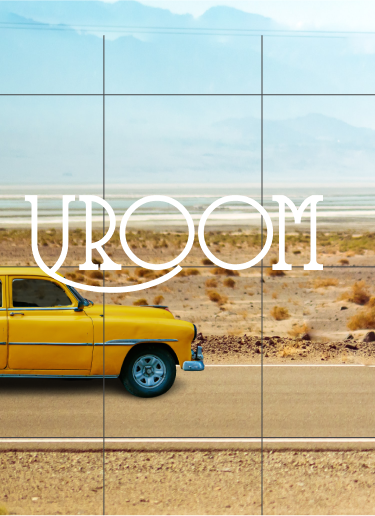
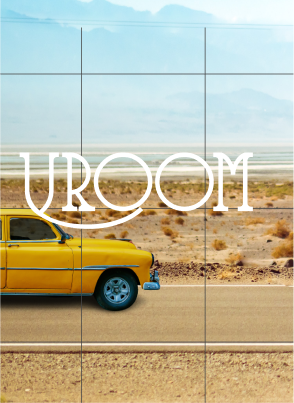
Mobile responsive image

diff --git a/assets/style.css b/assets/style.css
@@ -190,7 +190,7 @@
 
 :root {
     --channel-title: 20px;
-    --channel-description: calc(var(--channel-title)*2);
+    --channel-description: calc(var(--channel-title)*1.3);
     --clock: calc(var(--channel-title));
     --smallspacing: 200px;
 }
@@ -217,22 +217,22 @@ a { color: #FD6320; }
 	font-style: normal;
 	font-size: var(--channel-title);
 	position: fixed;
-    top: 1%;
-    line-height: 1.5;
-    display: flex;
+  top: 1%;
+  line-height: 1.5;
+  display: flex;
 }
 
  /*Clock */
 .clock {
-    position: fixed;
-    top: 1%;
-    right: 2%;
-    margin-right: var(--smallspacing);
-    transform: translateX(20%) translateY(20%);
-    font-size: var(--clock);
-	color: #FD6320;
-    font-family: pp_telegrafultrabold_oblique;
-    letter-spacing: 7px;
+  position: fixed;
+  top: 1%;
+  right: 2%;
+  margin-right: var(--smallspacing);
+  transform: translateX(20%) translateY(20%);
+  font-size: var(--clock);
+  color: #FD6320;
+  font-family: pp_telegrafultrabold_oblique;
+  letter-spacing: 7px;
 }
 
 /*Description */
@@ -255,10 +255,10 @@ a { color: #FD6320; }
 .image {
     padding: 5px;
     width: 500px;
-	border-radius: 10px;
-  border-color: rgb(106, 115, 123);
-	object-fit: cover;
-	box-shadow: 0px 0px 5px 0px rgba(211, 209, 209, 0.47);
+	  border-radius: 10px;
+    border-color: rgb(106, 115, 123);
+    object-fit: cover;
+    box-shadow: 0px 0px 5px 0px rgba(211, 209, 209, 0.47);
   }
 
 .video-embed-block .image{
@@ -352,14 +352,17 @@ ul {
 /* Responsive layout - image settings */
    @media (max-width: 800px) {
     #channel-blocks{
-        margin-left: 500px;
+        margin-left: 380px;
+        margin-bottom: 15px;
     }
   }
 
 /* Responsive layout - description */
   @media (max-width: 800px) {
     .channel-description{
-        margin-left: 2%;
+        margin-left: 4%;
+        max-width: 350px;
+        top: 10%;
     }
   }
 
